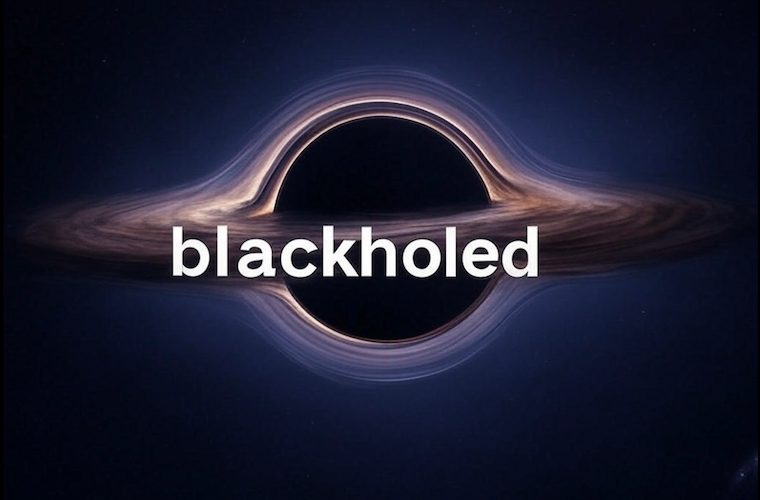
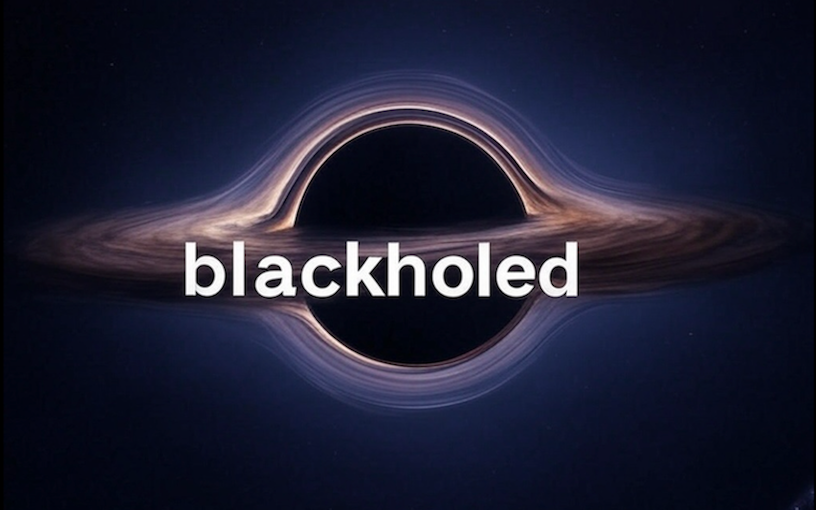
trying to fix an image

Changed region(s): [[0.0605, 0.18, 0.8776, 0.81], [0.9684, 0.9, 0.9987, 1.0]]

diff --git a/pages/learn/blackholed-address.js b/pages/learn/blackholed-address.js
@@ -37,8 +37,8 @@ export default function BlackholedAddress() {
             <Image
               src="/images/pages/blackholed-picture.png"
               alt="Blackholed Accounts"
-              width={760}
-              height={500}
+              width={816}
+              height={510}
               className="max-w-full h-auto object-contain"
               priority
             />
